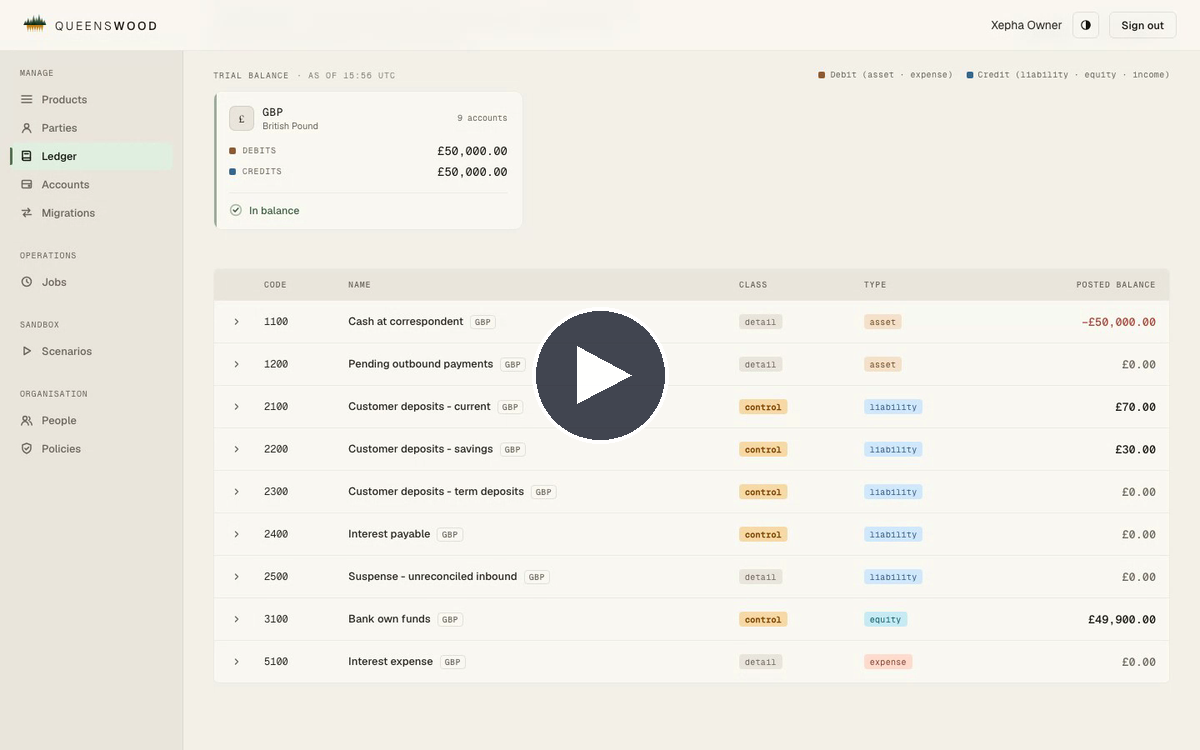
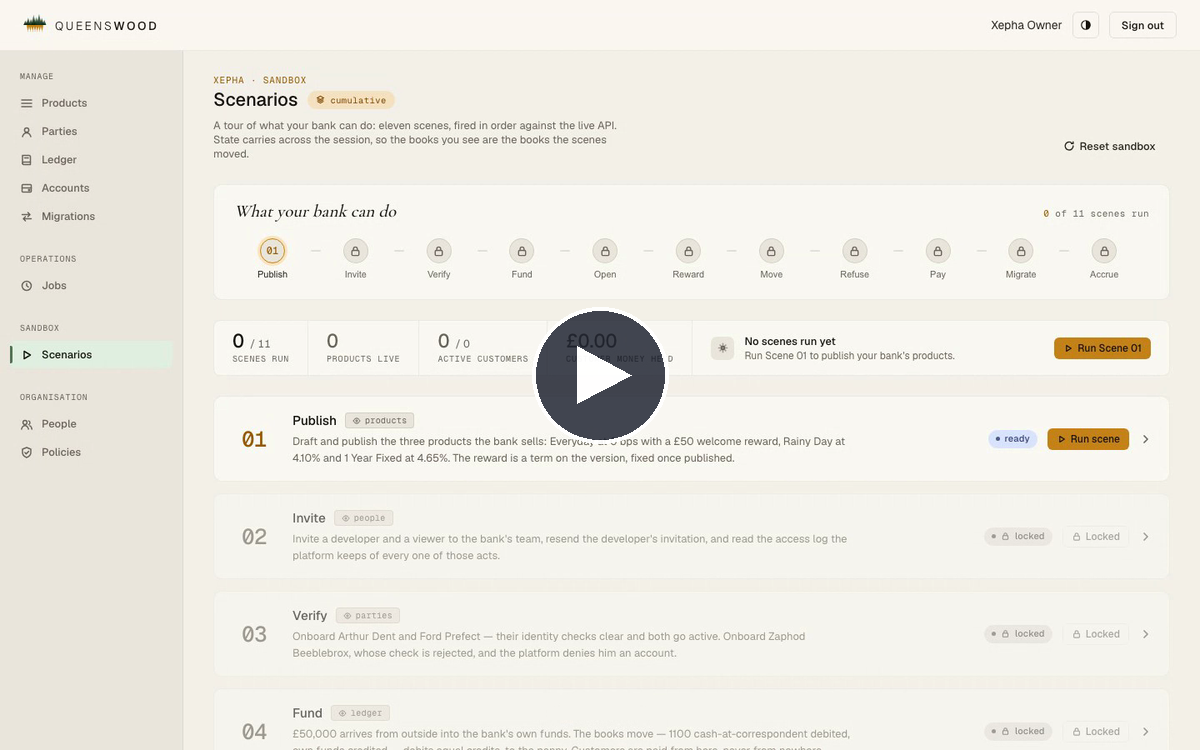
Tell the console's scenes in verbs, and drop the doors and shelves (#679)
* Tell the console's scenes in verbs, and drop the doors and shelves

The Scenarios page and the landing page still framed the scenes as a
bank opening its doors, with scenes such as stock the shelves and
policy holds the line. Both now use the scenes' own verbs, as the
README does: a tour of what your bank can do, Publish products,
Verify customers, Fund the bank, Refuse an overdraft, Accrue interest.

The facts that went stale with that copy are fixed too: the landing
page's spine has the eleven scenes, not eight; publishing a revision
no longer claims to archive the old version; funding moves the bank's
own funds, not a customer's; and the Scenarios band says all eleven
scenes, not eight. The reset toast is just "Sandbox reset".

* Open the console's landing page as the README does

The hero said "Core banking, modernized." and offered a hosted edition
that doesn't exist. It now says "Open-source core banking" and takes
the README intro's sentence: building a bank or embedding banking,
what Queenswood runs, and one API. MIT-licensed stays.

* Take the copy out of the landing page's engineering and closing sections

The engineering section was for engineers who'd actually read the docs,
on a coffee break, and its cards had writes earning command status and
the dev loop being the system. The heading is now the design decisions,
each card title names the decision, and the bodies keep their facts.
The closing section offers the chart or a REPL, without the minutes.
[…]

diff --git a/bases/console/src/lib/Landing.svelte b/bases/console/src/lib/Landing.svelte
@@ -53,23 +53,23 @@
   // {@html} because one entry contains inline <code>.
   const PRINCIPLES = [
     { key: "adr-0013", kicker: "ADR · 0013 · 0014",
-      title: "One unified API. OpenAPI is the contract.",
+      title: "One API, with an OpenAPI document.",
       href: "https://github.com/repldriven/queenswood/blob/main/docs/adr/0013-single-unified-api.md",
-      body: "Bank-shaped, not implementation-shaped. The spec drives client generation, validation, and documentation — there is no second source of truth." },
+      body: "Organised by what a bank does, not by how it's built. The document is generated from the routes, and drives validation and the published reference." },
     { key: "tdd-policy", kicker: "TDD · policy-evaluation",
-      title: "Policies as data, not hard-coded rules.",
+      title: "Policies as data.",
       href: "https://github.com/repldriven/queenswood/blob/main/docs/tdd/policy-evaluation.md",
-      body: "Capabilities and limits are records. A curative-permit pattern lets your customers self-correct balances out of breach without a manual override." },
+      body: "Capabilities and limits are records checked on every request. A curative permit lets a breaching action through only when it moves the position back toward compliance." },
     { key: "tdd-interest", kicker: "TDD · interest",
-      title: "Pennies are conserved by construction.",
+      title: "Integer money, remainder kept.",
       href: "https://github.com/repldriven/queenswood/blob/main/docs/tdd/interest.md",
-      body: "Integer micro-unit arithmetic with sub-minor-unit carry. Daily accrual, capitalisation at whatever cadence you choose, and one ledger entry per run rather than per account — ties out exactly." },
+      body: "Integer micro-unit arithmetic with sub-minor-unit carry. Daily accrual, capitalisation at the cadence you choose, and one ledger entry per run rather than per account." },
     { key: "tdd-scenario", kicker: "TDD · scenario-testing",
-      title: "A pure model runs beside the real system.",
+      title: "Tests against a model.",
       href: "https://github.com/repldriven/queenswood/blob/main/docs/tdd/scenario-testing.md",
-      body: "Tests pass only when the two agree. Property-based testing via fugato plus hand-authored EDN scenarios, sharing one runner." },
+      body: "A model runs beside the real system, and a test passes only when the two agree. Generated sequences via fugato and hand-written EDN scenarios share one runner." },
     { key: "adr-0018", kicker: "ADR · 0018",
-      title: "A write earns command status, or stays synchronous.",
+      title: "Commands or direct writes.",
       href: "https://github.com/repldriven/queenswood/blob/main/docs/adr/0018-command-writes-are-earned.md",
       body: "A write goes over the bus to a processor only when it needs multi-record atomicity under contention, has idempotency stakes, other bricks must react to it, or it arrives from unreliable ingress. Everything else is a direct write." },
     { key: "adr-0019", kicker: "ADR · 0019",
@@ -77,17 +77,17 @@
       href: "https://github.com/repldriven/queenswood/blob/main/docs/adr/0019-processor-packaging.md",
       body: "One thin base per service group; a project's <code>application.yml</code> alone decides which processors a JVM hosts. Grouped by boundary, not throughput — financial and operational processors never share a JVM." },
     { key: "adr-0002", kicker: "ADR · 0002",
-      title: "The changelog is the outbox.",
+      title: "Changelogs in the same transaction.",
       href: "https://github.com/repldriven/queenswood/blob/main/docs/adr/0002-foundationdb-record-layer.md",
-      body: "FoundationDB Record Layer gives multi-record ACID by default; the transactional outbox pattern falls out of the storage engine — no separate table." },
+      body: "FoundationDB Record Layer gives multi-record ACID, so a change and its changelog entry commit together, with no separate outbox table." },
     { key: "adr-0001", kicker: "ADR · 0001",
-      title: "mono is upstream, not a fork.",
+      title: "Built on mono.",
       href: "https://github.com/repldriven/queenswood/blob/main/docs/adr/0001-reuse-mono-as-upstream.md",
       body: "Shared infrastructure comes from mono as a git dependency pinned to a tag and sha; the workspace holds only the bank's own bricks. Upgrading mono is a one-line bump in two shims under <code>deps/</code>." },
     { key: "recipe-tc", kicker: "Recipe · testcontainers",
-      title: "REPL on the inside.",
+      title: "A REPL runs the whole system.",
       href: "https://github.com/repldriven/mono/blob/main/docs/recipes/test/testcontainers.md",
-      body: "Start a REPL, evaluate a comment block, and the whole system — FDB, Pulsar, HTTP, Keycloak — boots inside Testcontainers. The dev loop is the system.",
+      body: "Start a REPL, evaluate a comment block, and the whole system — FDB, Pulsar, HTTP, Keycloak — boots inside Testcontainers.",
       variant: "feature" },
   ];
 
@@ -267,22 +267,25 @@
     { name: "Trial balance ties", status: "ok" },
   ];
 
-  // The Scenarios spine that frames the page — a bank opening its doors.
+  // The Scenarios spine that frames the page, part-way through.
   const DEMO_SCENES = [
-    { num: "01", label: "Stock the shelves", status: "done" },
-    { num: "02", label: "Identity decides the account", status: "done" },
-    { num: "03", label: "Open the accounts", status: "done" },
-    { num: "04", label: "Money in, double-entry out", status: "done" },
-    { num: "05", label: "Customers save", status: "running" },
-    { num: "06", label: "Policy holds the line", status: "ready" },
-    { num: "07", label: "Friends settle up", status: "locked" },
-    { num: "08", label: "Runs itself overnight", status: "locked" },
+    { num: "01", label: "Publish", status: "done" },
+    { num: "02", label: "Invite", status: "done" },
+    { num: "03", label: "Verify", status: "done" },
+    { num: "04", label: "Fund", status: "done" },
+    { num: "05", label: "Open", status: "done" },
+    { num: "06", label: "Reward", status: "done" },
+    { num: "07", label: "Move", status: "running" },
+    { num: "08", label: "Refuse", status: "ready" },
+    { num: "09", label: "Pay", status: "locked" },
+    { num: "10", label: "Migrate", status: "locked" },
+    { num: "11", label: "Accrue", status: "locked" },
   ];
   const DEMO_BANK_CELLS = [
-    { figure: 4, unit: "/ 8", label: "Scenes run" },
-    { figure: 2, label: "Products live" },
+    { figure: 6, unit: "/ 11", label: "Scenes run" },
+    { figure: 3, label: "Products live" },
     { figure: 2, unit: "/ 3", label: "Active customers" },
-    { figure: "£2,000.00", label: "Customer money held" },
+    { figure: "£100.00", label: "Customer money held" },
   ];
 </script>
 
@@ -298,11 +301,11 @@
     simulators for development, plug in your own accounts per bank.
   </span>
   <a target="_blank" rel="noreferrer"
-    href="https://github.com/repldriven/queenswood/tree/main/bases/bank-clearbank-adapter"
+    href="https://github.com/repldriven/queenswood/tree/main/bases/clearbank-adapter"
     >ClearBank adapter ↗</a
   >
   <a target="_blank" rel="noreferrer"
-    href="https://github.com/repldriven/queenswood/tree/main/bases/bank-onfido-adapter"
+    href="https://github.com/repldriven/queenswood/tree/main/bases/onfido-adapter"
     >Onfido adapter ↗</a
   >
 </div>
@@ -335,13 +338,14 @@
       <div>
         <span class="eyebrow">Banking platform · v0.1.0</span>
         <h1 class="title">
-          Core banking,<br /><em>modernized.</em>
+          Open-source<br /><em>core banking.</em>
         </h1>
         <p class="lede">
-          Everything a modern fintech needs to operate as a bank — a double-entry
-          ledger, UK Faster Payments, customer KYC, configurable policies, and
-          scheduled interest — under one unified OpenAPI. Use the hosted edition,
-          or self-host the open core. MIT-licensed.
+          Whether you're building a bank or embedding banking into your product,
+          Queenswood runs the banking behind it: customer onboarding with identity
+          checks, products and accounts, payments, a general ledger and
+          end-of-day processing, all configured and driven through one API.
+          MIT-licensed.
         </p>
         <div class="ctas">
           <button class="btn solid" onclick={goSignIn}>Sign in</button>
@@ -418,15 +422,15 @@
 <section class="story">
   <div class="wrap">
     <span class="eyebrow">See it run</span>
-    <h2>A bank opening its <em>doors.</em></h2>
+    <h2>A tour of what your bank <em>can do.</em></h2>
     <p class="lead">
       The console ships a sandbox that fires these capabilities against the live
-      API, in order — eight scenes that build one cumulative story. The screens
+      API, in order — eleven scenes, each building on the one before. The screens
       below are those scenes, rendered with the real components, not mockups.
     </p>
     <div class="spine-wrap">
       <ProgressSpine
-        title="A bank opening its doors"
+        title="What your bank can do"
         progressLabel="scenes run"
         steps={DEMO_SCENES}
       />
@@ -435,7 +439,7 @@
           <svg viewBox="0 0 16 16" fill="none" stroke="currentColor" stroke-width="1.7" stroke-linecap="round" stroke-linejoin="round"><circle cx="8" cy="8" r="6.4" stroke-opacity="0.4" /><path d="M5.2 8.2 L7.1 10 L10.8 6" /></svg>
         {/snippet}
         {#snippet title()}Books tie — debits equal credits{/snippet}
-        {#snippet sub()}2 customers · £2,000.00 held{/snippet}
+        {#snippet sub()}2 customers · £100.00 held{/snippet}
       </BankStateBand>
     </div>
   </div>
@@ -446,11 +450,11 @@
     <div class="grid">
       <div>
         <span class="num">01 — Products</span>
-        <h3>Stock the <em>shelves.</em></h3>
+        <h3>Publish <em>products.</em></h3>
         <p>
           Define cash-account products — a current account, a savings product —
-          then publish to commit a version. Revise whenever you like; publishing
-          the new version auto-archives the one it supersedes.
+          then publish to commit a version. A revision is a new version beside the
+          old, and a migration moves holders onto it.
         </p>
         <ul>
           <li>Draft → publish → archive, versioned at publish</li>
@@ -490,7 +494,7 @@
     <div class="grid">
       <div>
         <span class="num">02 — Parties &amp; IDV</span>
-        <h3>Identity decides the <em>account.</em></h3>
+        <h3>Verify <em>customers.</em></h3>
         <p>
           Onboard people and organisations. An Onfido identity check runs
           automatically and flips each party to active or rejected — no operator
@@ -533,7 +537,7 @@
     <div class="grid">
       <div>
         <span class="num">03 — Accounts</span>
-        <h3>Open the <em>accounts.</em></h3>
+        <h3>Open <em>accounts.</em></h3>
         <p>
           Each customer account leads with its available balance, then the
           posting history with a running balance — an inbound Faster Payment in,
@@ -587,10 +591,10 @@
     <div class="grid">
       <div>
         <span class="num">04 — Ledger</span>
-        <h3>Money in, <em>double-entry</em> out.</h3>
+        <h3>Fund the <em>bank.</em></h3>
         <p>
-          Funding an account moves the books — cash-at-correspondent debited,
-          customer deposits credited. Every posting is half of a balanced pair,
+          Funding the bank moves the books — cash at correspondent debited,
+          the bank's own funds credited. Every posting is half of a balanced pair,
           accounts decompose into their balances, and the trial balance ties to
           the penny.
         </p>
@@ -655,8 +659,8 @@
   <div class="wrap">
     <div class="grid">
       <div>
-        <span class="num">06 — Policies</span>
-        <h3>Policy holds the <em>line.</em></h3>
+        <span class="num">05 — Policies</span>
+        <h3>Refuse an <em>overdraft.</em></h3>
         <p>
           Capabilities and limits are data, not hard-coded rules. The platform's
           non-negative-balance limit refuses an overdraft before any money
@@ -686,8 +690,8 @@
   <div class="wrap">
     <div class="grid">
       <div>
-        <span class="num">08 — Interest &amp; Jobs</span>
-        <h3>Runs itself <em>overnight.</em></h3>
+        <span class="num">06 — Interest &amp; Jobs</span>
+        <h3>Accrue <em>interest.</em></h3>
         <p>
           A seeded daily job accrues interest with micro-unit precision, then
           capitalises it into the customer's spendable balance — one statement
@@ -720,11 +724,10 @@
   <div class="wrap">
     <span class="eyebrow">Engineering choices</span>
     <h2>
-      The interesting bits — <em>for engineers</em> who'd actually read the docs.
+      The design <em>decisions.</em>
     </h2>
     <p class="lead">
-      Queenswood is opinionated. Key choices that show up everywhere in the
-      codebase, each documented, so you can read on a coffee break.
+      The choices that run through the codebase, each with its document.
     </p>
     <div class="grid">
       {#each PRINCIPLES as p (p.key)}
@@ -754,12 +757,11 @@
     <div class="grid">
       <div>
         <span class="eyebrow muted">Run it locally</span>
-        <h2>One install away from a <em>working bank.</em></h2>
+        <h2>Install the chart, or start a <em>REPL.</em></h2>
         <p>
-          Install the chart, port-forward, open the SPA. Or start a REPL with <code
-            >just repl</code
-          > and bring the whole system up inside Testcontainers. Either way you're
-          posting balanced transfers in minutes.
+          Install the chart, port-forward and open the console. Or start a REPL
+          with <code>just repl</code> and bring the whole system up inside
+          Testcontainers.
         </p>
         <div class="ctas">
           <button class="btn gold" onclick={goSignIn}>Sign in</button>
@@ -794,8 +796,8 @@
           <span class="wm"><Wordmark variant="grotesk" size={14} /></span>
         </a>
         <p class="desc">
-          Core banking, modernised. Bring your own ClearBank and Onfido —
-          open source under MIT, with bundled simulators for development.
+          Open-source core banking, under MIT. Adapters for ClearBank and
+          Onfido, with simulators that stand in for both during development.
         </p>
       </div>
       <div>

diff --git a/bases/console/src/lib/Scenarios.svelte b/bases/console/src/lib/Scenarios.svelte
@@ -1,8 +1,7 @@
 <script>
   /* Scenarios — a customer-facing SANDBOX that proves the platform
      works by running real, HTTP-driven scenarios live. Eleven scenes
-     tell one continuous story — a bank opening its doors — fired
-     manually in order. State is CUMULATIVE: each scene builds on the
+     tour what a bank can do, fired manually in order. State is CUMULATIVE: each scene builds on the
      last, and the bank-state band accumulates the evidence as scenes
      complete.
 
@@ -714,7 +713,7 @@
     ctx = {};
     persistDone();
     persistCtx();
-    pushToast("Sandbox reset — the bank is closed again");
+    pushToast("Sandbox reset");
   }
 
   // ── navigation ────────────────────────────────────────────────────
@@ -822,7 +821,7 @@
 <PageHeader
   {kicker}
   title="Scenarios"
-  sub="Watch the platform run for real. Eleven scenes tell one story — a bank opening its doors — fired in order against the live API. State carries across the whole session, so the books you see are the books the scenarios actually moved."
+  sub="A tour of what your bank can do: eleven scenes, fired in order against the live API. State carries across the session, so the books you see are the books the scenes moved."
 >
   {#snippet titleAside()}
     <span class="cum-chip" title="State carries across scenes — each builds on the last.">
@@ -839,7 +838,7 @@
 </PageHeader>
 
 <ProgressSpine
-  title="A bank opening its doors"
+  title="What your bank can do"
   steps={spineSteps}
   progressLabel="scenes run"
   onJump={(i) => jumpTo(SCENES[i].id)}
@@ -850,15 +849,15 @@
     {#if done.length === 0}{@render icoSpark()}{:else}{@render icoCheck()}{/if}
   {/snippet}
   {#snippet title()}
-    {#if done.length === 0}The bank hasn't opened yet
-    {:else if nextIdx === -1}The bank is open, funded, and running
+    {#if done.length === 0}No scenes run yet
+    {:else if nextIdx === -1}Every scene run
     {:else}Books tie — debits equal credits{/if}
   {/snippet}
   {#snippet sub()}
     {#if done.length === 0}
-      Run Scene 01 to stock the shelves and watch the platform build a bank, live.
+      Run Scene 01 to publish your bank's products.
     {:else if nextIdx === -1}
-      All eight scenes complete · books tie to the penny
+      All eleven scenes run · the books tie to the penny
     {:else}
       {bank.activeCustomers} customer{bank.activeCustomers === 1 ? "" : "s"} · <span class="mono">{fmtMoney(bank.cash)}</span> held
     {/if}

diff --git a/readme.md b/readme.md
@@ -16,7 +16,7 @@ provider.
 
 ## Demo
 
-[![Video: a tour of what your bank can do, in the operator console](docs/assets/demo-console.png)](https://github.com/user-attachments/assets/f112c363-b7ba-4f83-b96a-88219e3bc554)
+[![Video: a tour of what your bank can do, in the operator console](docs/assets/demo-console.png)](https://github.com/user-attachments/assets/d0a877f4-1cba-4275-bee6-db60617214a1)
 
 A tour of what your bank can do, in the operator console: **Publish** products,
 **Invite** operators, **Verify** customers, **Fund** the bank, **Open**
